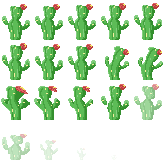
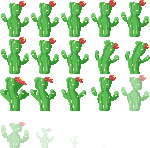
cactus posizionati lvl 2

diff --git a/src/scenes/base_3.js b/src/scenes/base_3.js
@@ -162,16 +162,16 @@ function create(s) {
     // CACTUS
 
     let cactus_liv3 = [
-        { x: 1*32, y: 1*32, id: "cactus_L3_1"},
-        { x: 1*32, y: 1*32, id: "cactus_L3_2"},
-        { x: 1*32, y: 1*32, id: "cactus_L3_3"},
-        { x: 1*32, y: 1*32, id: "cactus_L3_4"},
-        { x: 1*32, y: 1*32, id: "cactus_L3_5"},
-        { x: 1*32, y: 1*32, id: "cactus_L3_6"},
-        { x: 1*32, y: 1*32, id: "cactus_L3_7"},
-        { x: 1*32, y: 1*32, id: "cactus_L3_8"},
-        { x: 1*32, y: 1*32, id: "cactus_L3_9"},
-        { x: 1*32, y: 1*32, id: "cactus_L3_10"},
+        { x: -4*32, y: -8*32, id: "cactus_L3_1"},
+        { x: 17*32, y: -23*32, id: "cactus_L3_2"},
+        { x: 51*32, y: -4*32, id: "cactus_L3_3"},
+        { x: 88*32, y: -14*32, id: "cactus_L3_4"},
+        { x: 60*32, y: 27*32, id: "cactus_L3_5"},
+        { x: 76*32, y: 40*32, id: "cactus_L3_6"},
+        { x: 56*32, y: 55*32, id: "cactus_L3_7"},
+        { x: 46*32, y: 55*32, id: "cactus_L3_8"},
+        { x: 75*32, y: 76*32, id: "cactus_L3_9"},
+        { x: 82*32, y: 81*32, id: "cactus_L3_10"},
     ];
     create_cactus(s, muri_livello, cactus_liv3);
 

diff --git a/src/cactus.js b/src/cactus.js
@@ -3,7 +3,7 @@ let gruppo_cactus;
 let asset_proiettile_cactus;
 
 function preload_cactus(s) {
-    img_cactus = PP.assets.sprite.load_spritesheet(s, "assets/images/CACTUS/Animazioni Cactus.png", 33, 40);
+    img_cactus = PP.assets.sprite.load_spritesheet(s, "assets/images/CACTUS/Animazioni Cactus.png", 30, 37);
     asset_proiettile_cactus = PP.assets.image.load(s, "assets/images/CACTUS/Proiettile.png");
 }
 
@@ -38,7 +38,7 @@ function create_cactus(s, muri, spawn_list) {
 }
 
 function spawna_singolo_cactus(s, x, y) {
-    let cactus = PP.assets.sprite.add(s, img_cactus, x, y, 0.5, 1);
+    let cactus = PP.assets.sprite.add(s, img_cactus, x, y, 0, 1);
 
     cactus.hp = 5;
     cactus.ph_obj.wrapper = cactus;

diff --git a/src/main.js b/src/main.js
@@ -4,7 +4,7 @@ var config = {
     canvas_height: 720,
     canvas_id: "game_area", // Specifica il div contenitore
     background_color: 0xeec877,
-    debug_mode: false,
+    debug_mode: true,
     gravity_value: 1200
 };
 
